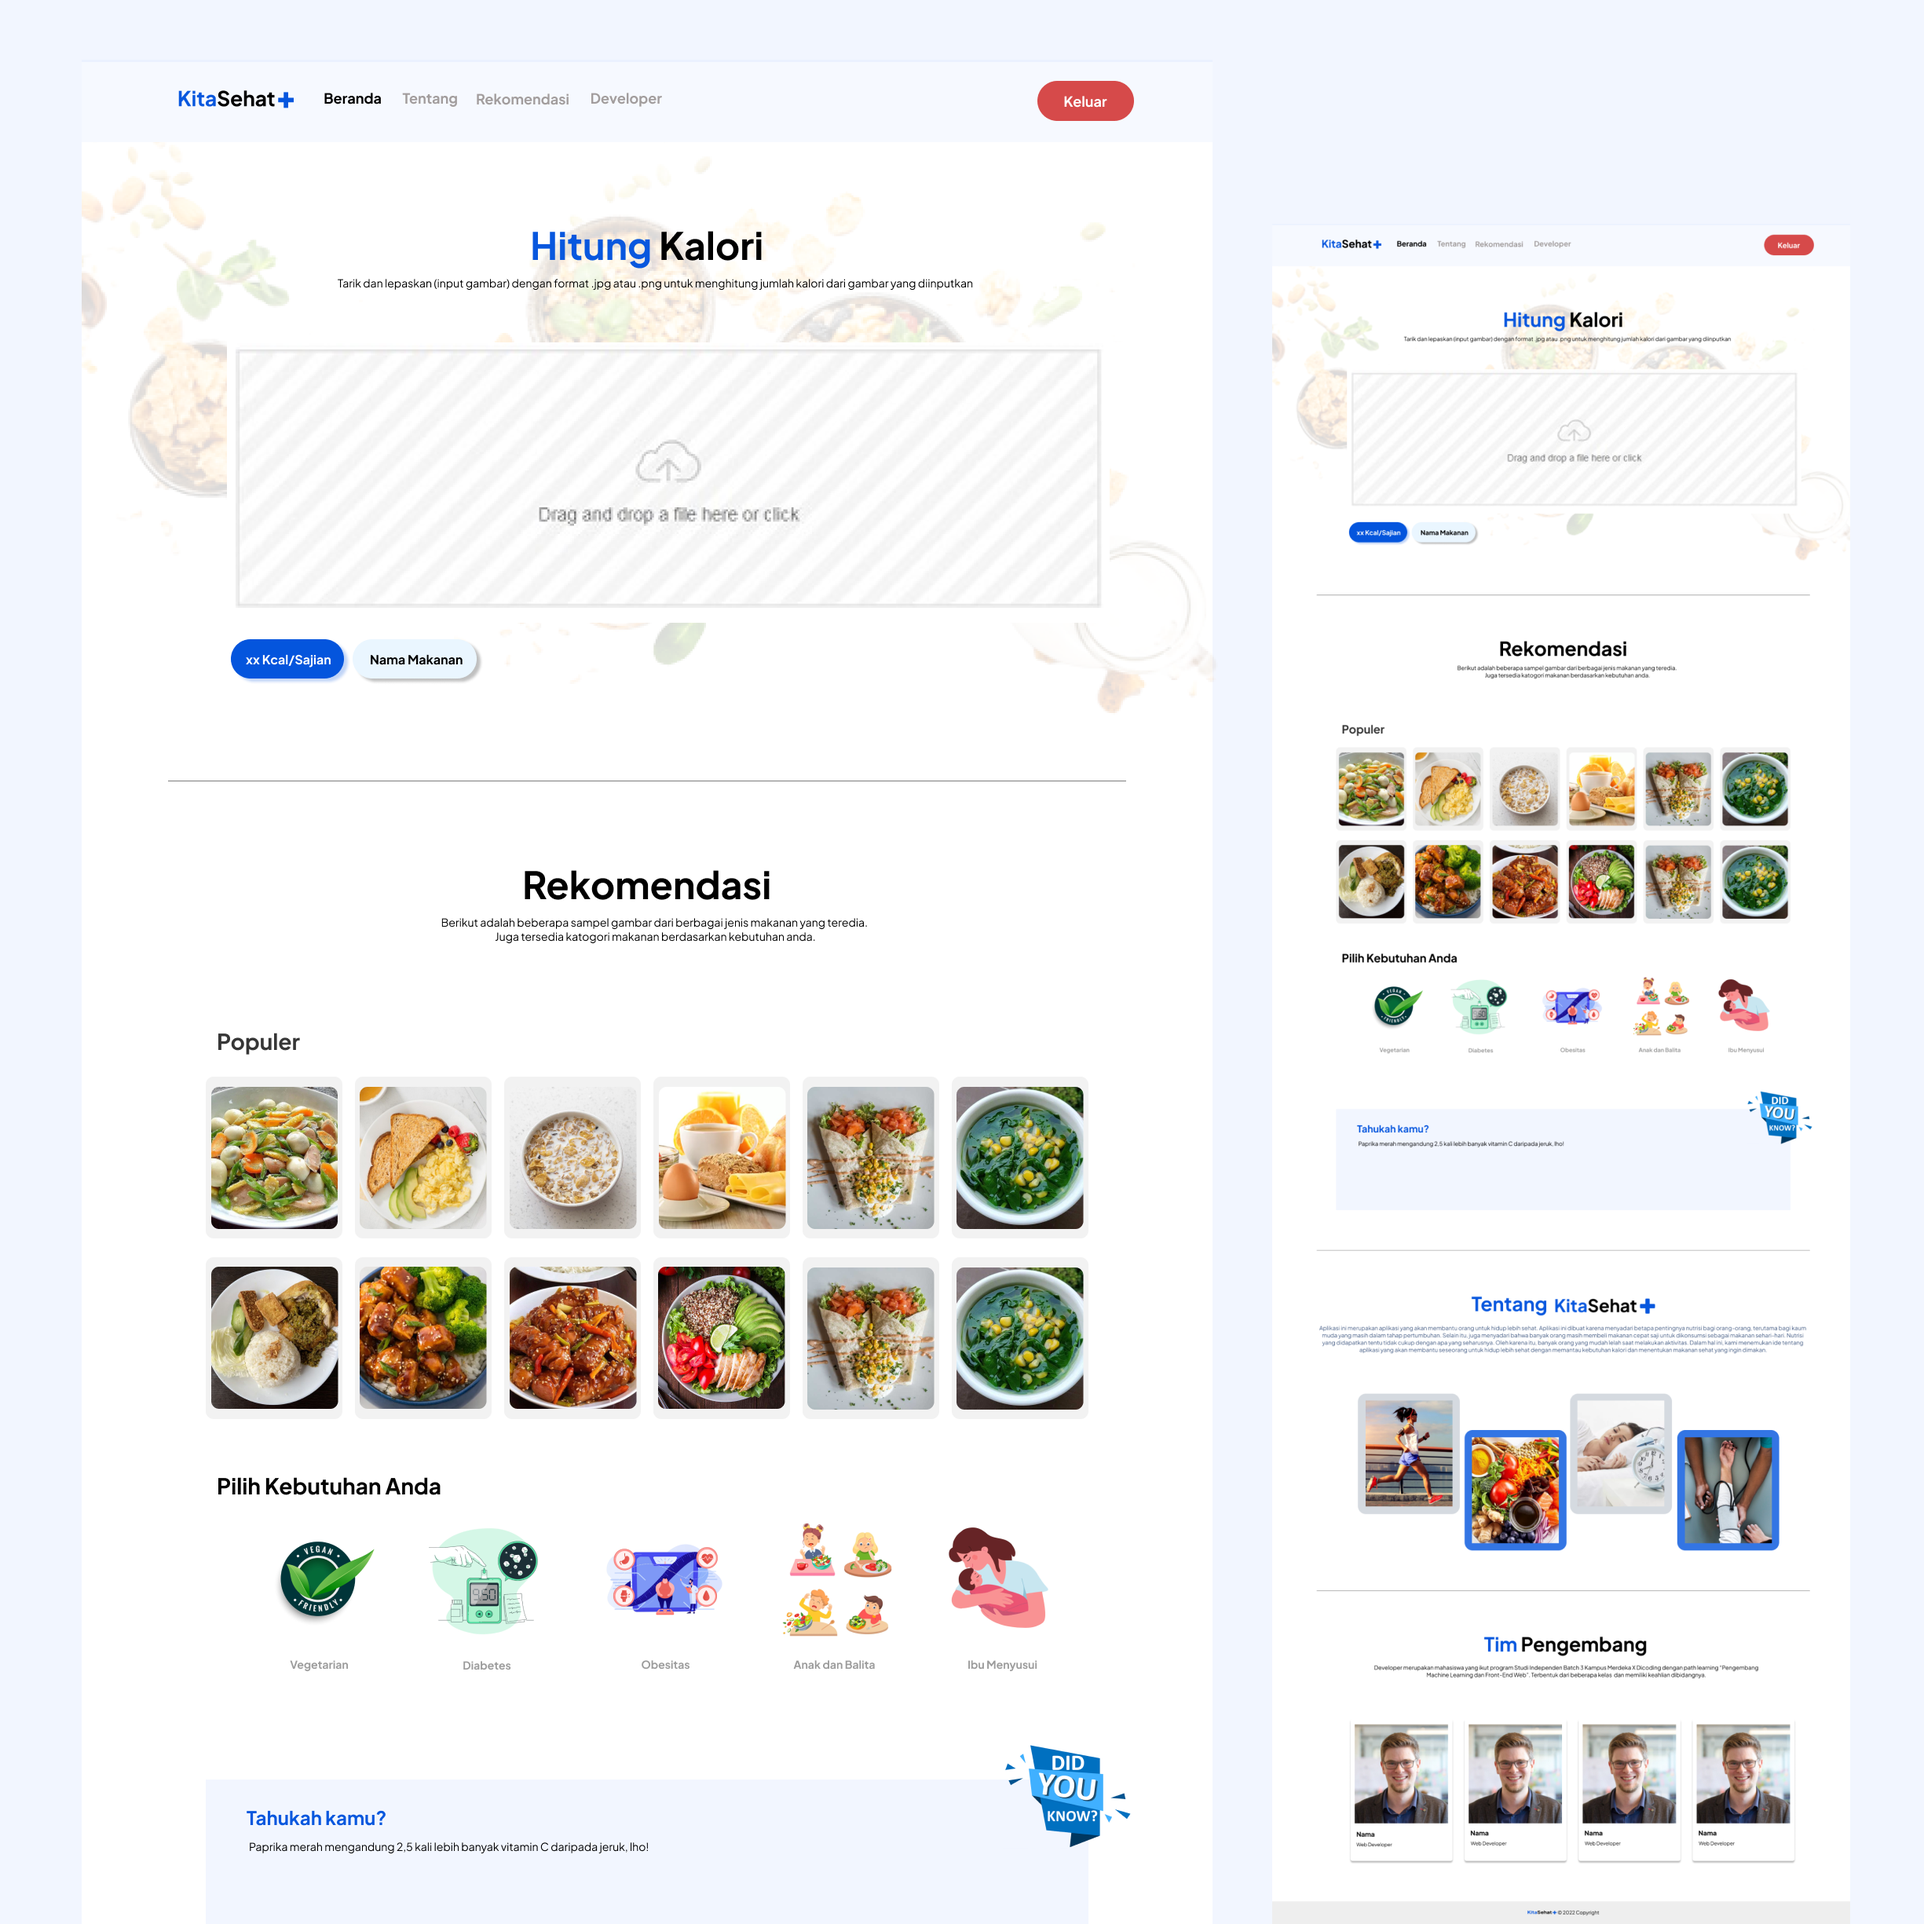
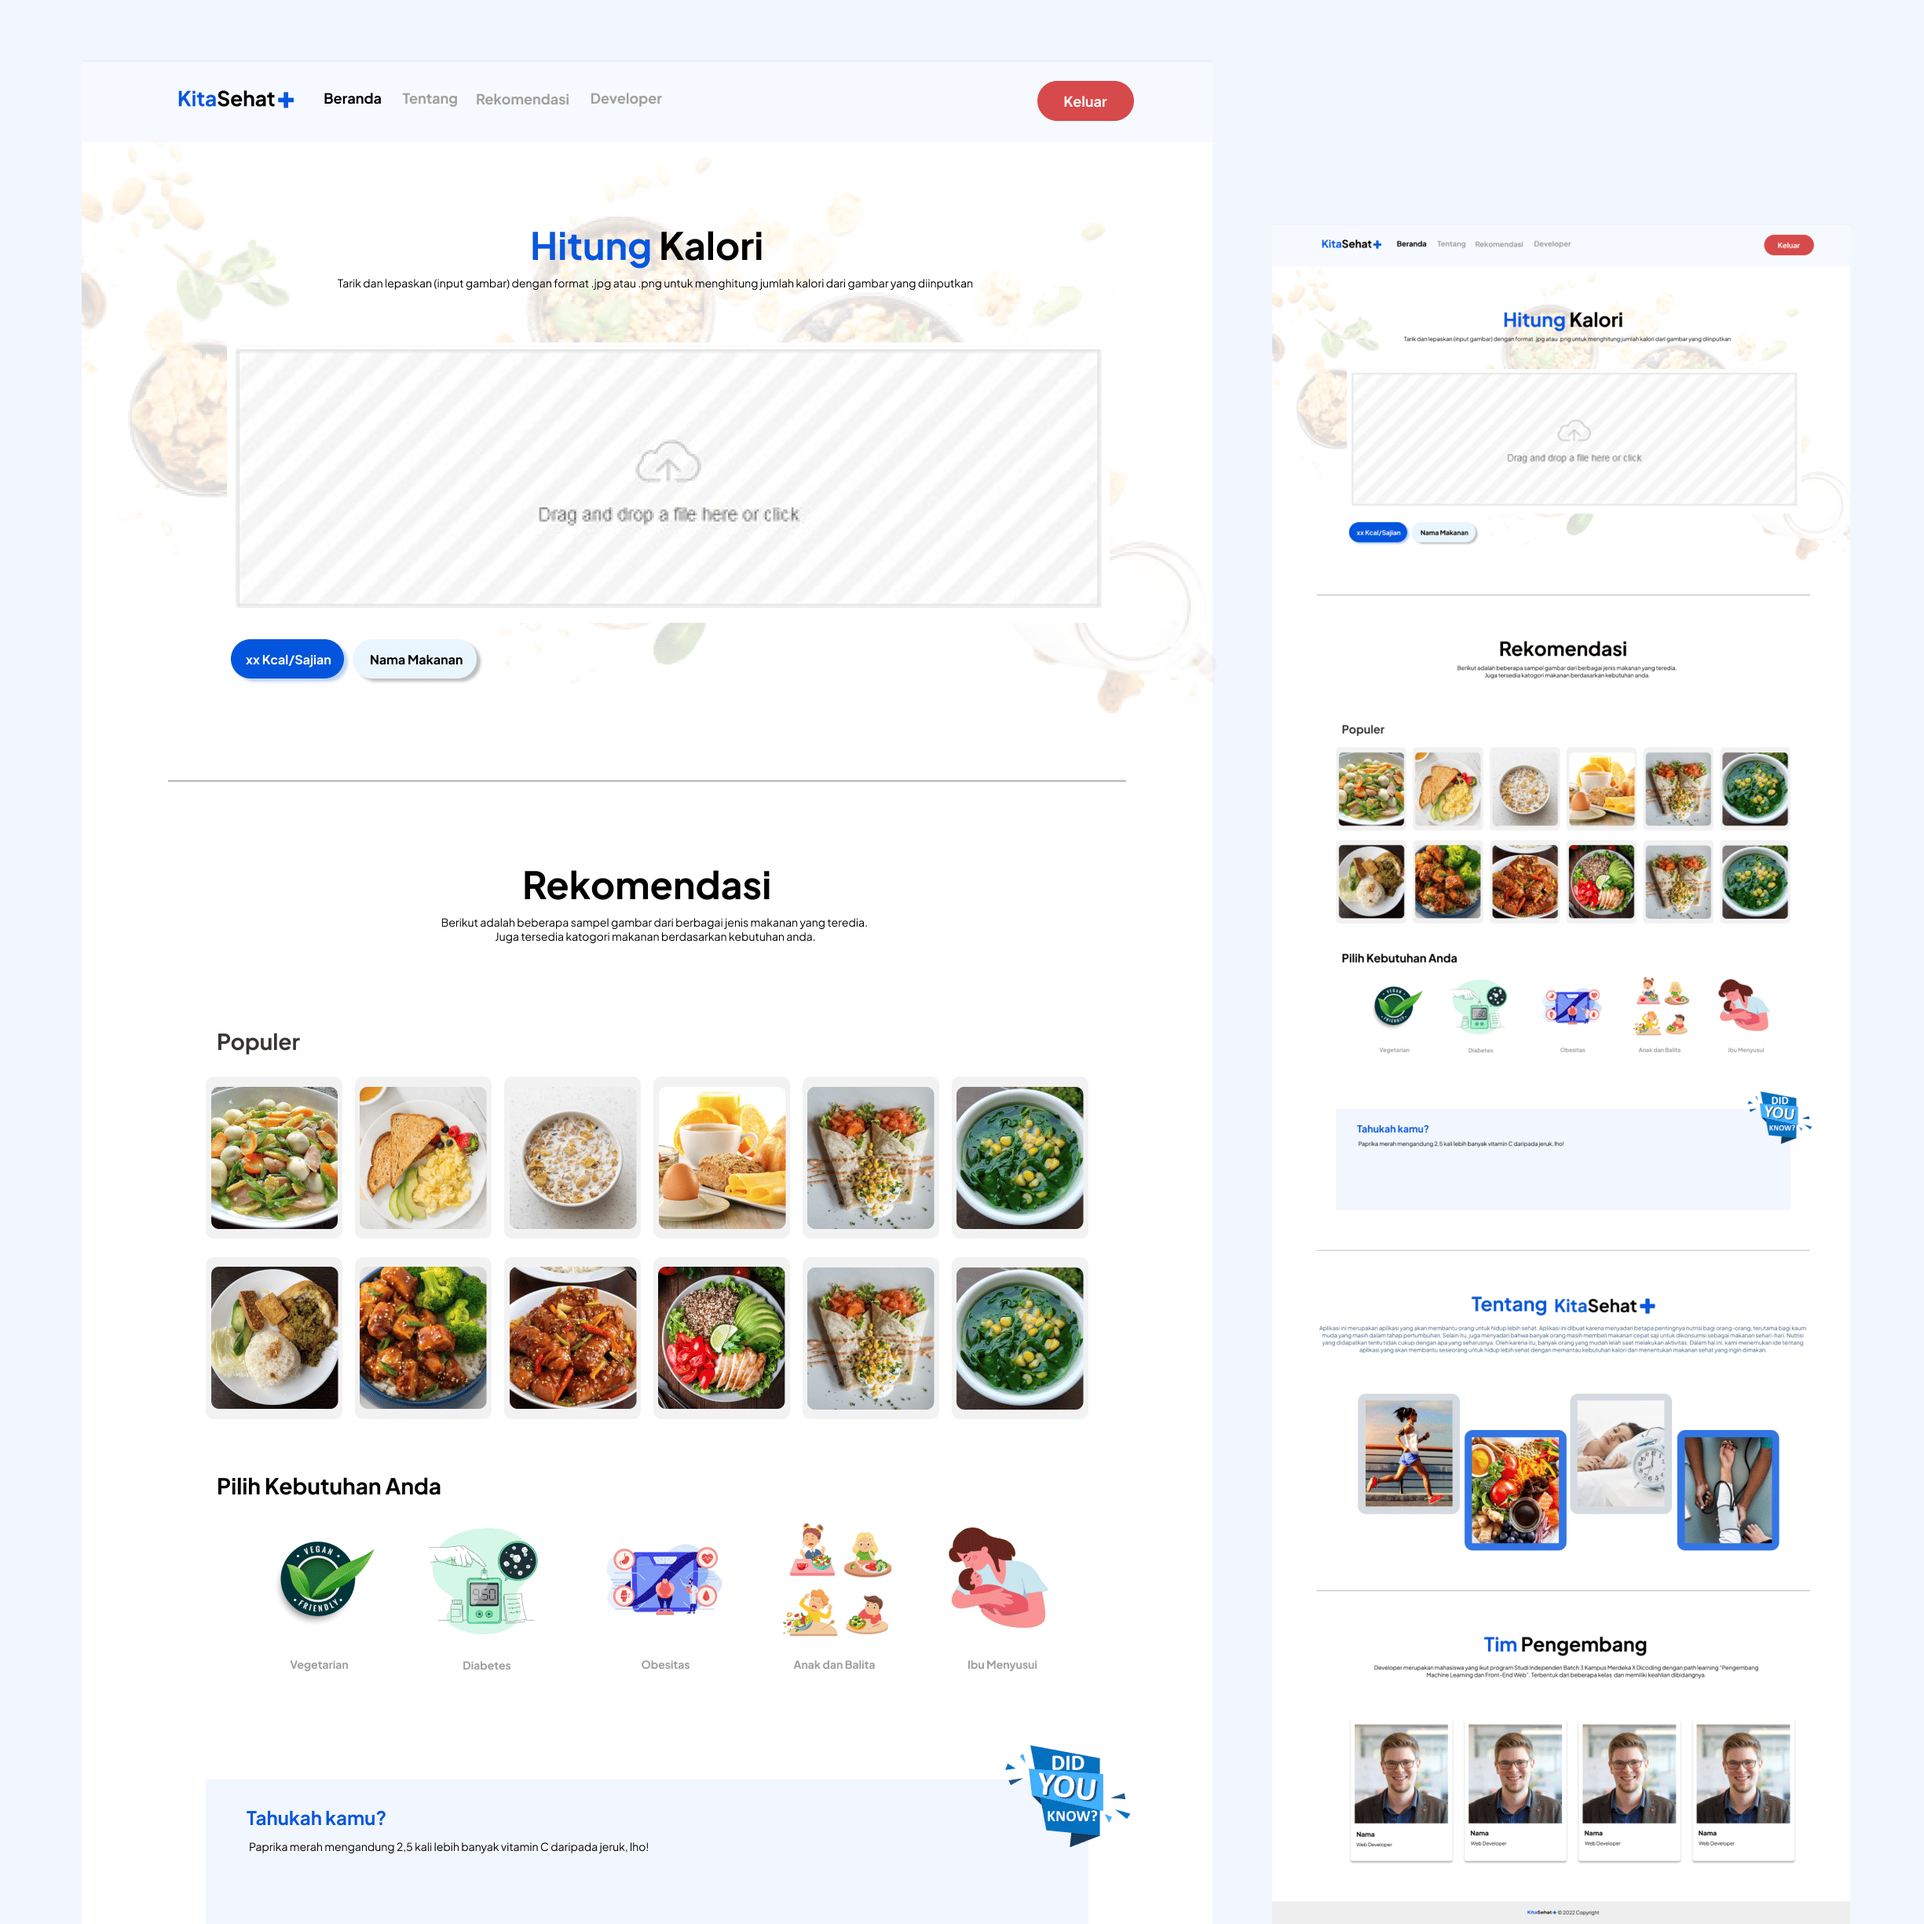
Update 10 september 2026

diff --git a/src/component/About.jsx b/src/component/About.jsx
@@ -63,19 +63,16 @@ const About = () => {
               </h2>
             </div>
             <p className="sm:text-[16px] md:leading-[190%] text-[12px] text-justify mt-[80px] max-sm:mt-[50px]  ">
-              I am Dico Aji Prasetyo, a Junior Web Developer and Informatics
-              alumnus from Universitas Diponegoro, currently contributing to
-              digital transformation within the Grobogan District Agriculture
-              Office. At 23, I bring two years of hands-on experience developing
-              high-efficiency web applications. My expertise is complemented by
-              a strong technical curiosity, specifically in UI/UX Design and
-              Machine Learning development. My background as a Civil Servant
-              provides a unique perspective on governmental needs, enabling me
-              to build solutions that are not only technically sound but also
-              politically and functionally effective. I excel in collaborative
-              settings and actively seek innovative projects that demand
-              creativity and utilize the latest technological advancements to
-              deliver significant impact.
+              My name is Dico Aji Prasetyo, S.Kom, I come from Kradenan,
+              Grobogan, Central Java. I am an Informatics graduate from
+              Diponegoro University. I am currently 23 years old and I work at
+              the Department of Agriculture Grobogan, Central Java as a Computer
+              Technician. I bring two years of experience in developing web
+              applications. My skills are complemented by a strong technical
+              curiosity, particularly in UI/UX Design and Machine Learning
+              development. I excel in collaboration and actively seek out
+              innovative projects that require creativity and leverage the
+              latest technological advancements to deliver significant impact.
             </p>
           </div>
           <img

diff --git a/src/component/Project.jsx b/src/component/Project.jsx
@@ -25,6 +25,7 @@ import credia from "./../../public/img/project/credia.png";
 import soreeCafe from "./../../public/img/project/soree-cafe.png";
 import optimasi from "./../../public/img/project/optimasi.png";
 import kitasehat from "./../../public/img/project/kitasehat.png";
+import dispertan from "./../../public/img/project/dispertan.png";
 
 const images = {
   "bandikmenti.png": bandikmenti,
@@ -46,6 +47,7 @@ const images = {
   "soree-cafe.png": soreeCafe,
   "optimasi.png": optimasi,
   "kitasehat.png": kitasehat,
+  "dispertan.png": dispertan,
 };
 
 const Project = () => {
